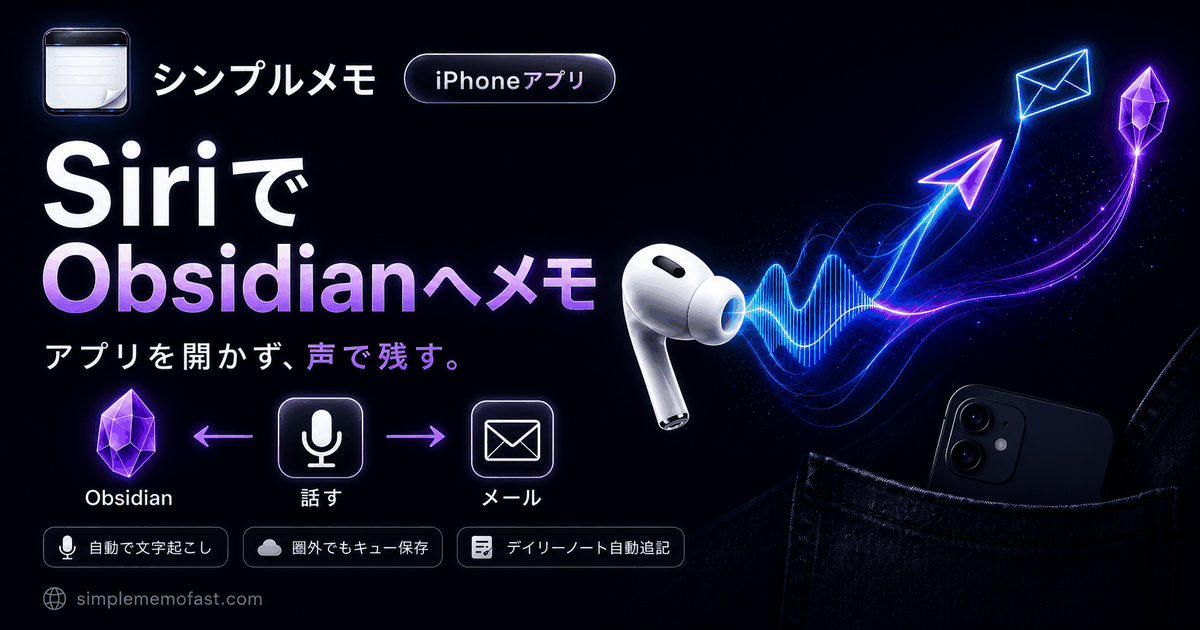
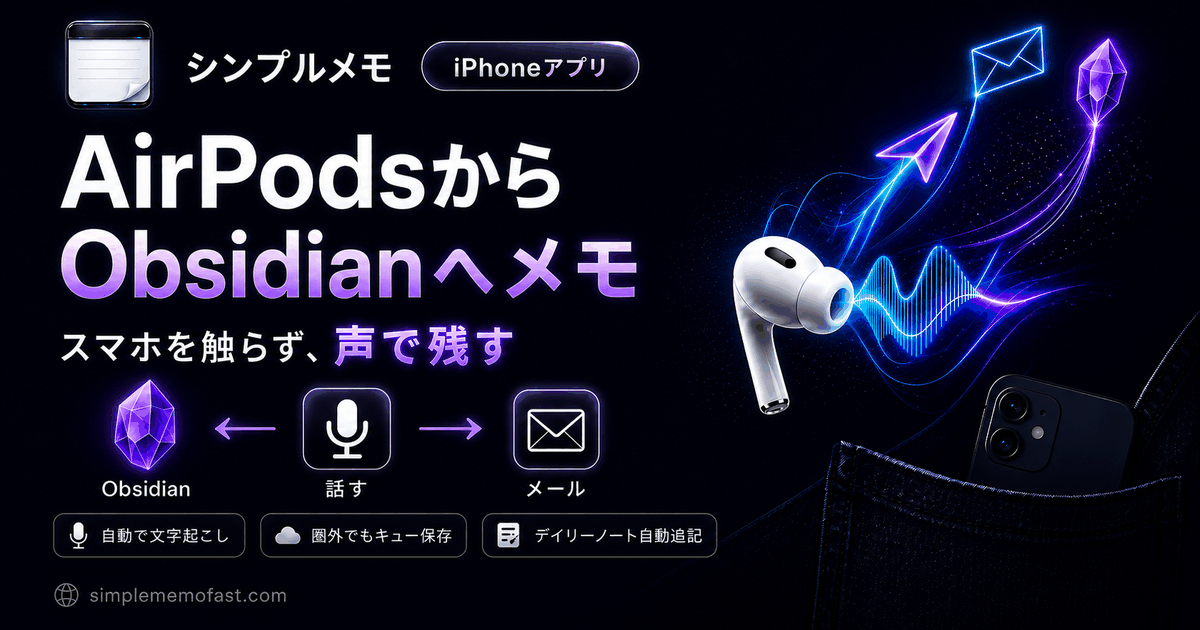
feat(lp): /siri/ の訴求主語を AirPods に振り直し、トップページに予告バナーを追加 (#427)
* feat(lp): /siri/ の訴求主語を Siri から AirPods に振り直す

文字入りバナーを「AirPodsからObsidianへメモ／スマホを触らず、声で残す」に
作り直したのに合わせ、特集ページとトップページ予告のコピーを揃える。

主役は AirPods、Siri は「その仕組み」という位置づけに変えた。URLは /siri/ の
まま、title・description・JSON-LD には Siri と「シンプルメモで残す」を残して
あるので、既存の Siri 系クエリの手がかりは落ちない。そのうえで
「AirPods メモ」「AirPods Obsidian」を新たに拾いにいく。

## /siri/

- title / description / OGP / Twitter Card / JSON-LD(Article・WebPage) /
  言語切替用 meta テンプレート（日英）
- ヒーロー: ラベル「AirPods × Siri（スマホを触らない音声メモ）」、
  H1「AirPodsから、Obsidianへメモ。」、リード文を AirPods 起点に
- 「ひとことで言うと」を AirPods 起点に
- 節見出し「「開かない」から、できること」→「「触らない」から、できること」
- ヒーロー画像の alt を新バナーの内容に更新

## トップページ / hands-free

- 予告チップ「🎧 Siriで開かずに送る「シンプルメモで残す」」
  → 「🎧 AirPodsから、スマホを触らず送る」
- /hands-free/ の関連リンクも同じ文言に

## 画像は未配置

新バナーの実ファイルはまだ入っていない。同じスロット
assets/img/og/siri.png を上書きすれば有効になる。参照側の ?v= は
20260805c に上げてあるので、置いた瞬間に7日 immutable キャッシュを抜ける。
上書きするまでは H1 の直下に旧バナーが出て矛盾するため、
差し替え前にマージしないこと（経緯は docs/siri-hero-banner-brief.md）。

検証: 16ページ × 390/768/1280px で横溢れ・JSエラーなし。
seo-check 0 errors / 165 warnings（変更前と同数）、sync_constants・
generate_sitemap も変更前と同じ。title は日 57字・英 66字で上限70字以内。

Claude-Session: https://claude.ai/code/session_01NAfAYSWiapyAGvW8aPQ4T8

* feat(lp): トップページに AirPods バナーブロックを追加

これまで /siri/ への導線は音声入力セクション内のリンクチップ1つだけだった。
Apple Watch・Obsidian・AIタグと同じバナーブロック（クリックできるバナー画像
＋リード文＋CTAボタン）に格上げする。

配置はヒーロー直下の先頭。ファイル内に既にある「newest feature — first
banner after hero」の並び順に従った（Siri送信は v5.0.3 で、AIタグ・
Apple Watch v3.9 より新しい）。AIタグ側のコメントはその記述を外した。
[…]

diff --git a/siri/index.html b/siri/index.html
@@ -22,17 +22,17 @@
       });
     });
   </script>
-  <title>Siriで音声メモ — アプリを開かずに送れる「シンプルメモで残す」 | Obsidian連携シンプルメモ</title>
-  <meta name="description" content="アプリを開かずに、Siriに話すだけでメモがメールとObsidianに届きます。合言葉は「Hey Siri、シンプルメモで残す」。AirPodsならポケットのiPhoneに一度も触れず、声だけで完結。設定手順・使えるフレーズ・うまくいかないときの対処まで実機検証に基づいて解説します。">
+  <title>AirPodsで音声メモ — スマホを触らずSiriでObsidianへ送る | Obsidian連携シンプルメモ</title>
+  <meta name="description" content="AirPodsに話しかけるだけで、メモがメールとObsidianに届きます。合言葉は「Hey Siri、シンプルメモで残す」。スマホはポケットに入れたまま、アプリも開かず、画面も見ずに声だけで完結。設定手順・使えるフレーズ・うまくいかないときの対処まで実機検証に基づいて解説します。">
   <meta name="theme-color" content="#070b14">
 
   <!-- OGP -->
-  <meta property="og:title" content="Siriで音声メモ — アプリを開かずに送れる「シンプルメモで残す」 | Obsidian連携シンプルメモ">
-  <meta property="og:description" content="Siriに話すだけでメモがメールとObsidianに届く。合言葉は「Hey Siri、シンプルメモで残す」。AirPodsならiPhoneに触れず声だけで完結。">
+  <meta property="og:title" content="AirPodsで音声メモ — スマホを触らずSiriでObsidianへ送る | Obsidian連携シンプルメモ">
+  <meta property="og:description" content="AirPodsに話しかけるだけでメモがメールとObsidianに届く。合言葉は「Hey Siri、シンプルメモで残す」。スマホはポケットのまま、画面も見ずに声だけで完結。">
   <meta property="og:type" content="article">
   <meta property="article:published_time" content="2026-08-05T00:00:00+09:00">
   <meta property="og:url" content="https://simplememofast.com/siri/">
-  <meta property="og:image" content="https://simplememofast.com/assets/img/og/siri.png?v=20260805b">
+  <meta property="og:image" content="https://simplememofast.com/assets/img/og/siri.png?v=20260805c">
   <meta property="og:image:width" content="1200">
   <meta property="og:image:height" content="630">
   <meta property="og:site_name" content="Obsidian連携シンプルメモ">
@@ -42,9 +42,9 @@
   <!-- Twitter Card -->
   <meta name="twitter:card" content="summary_large_image">
   <meta name="twitter:site" content="@simplememofast">
-  <meta name="twitter:title" content="Siriで音声メモ — アプリを開かずに送れる「シンプルメモで残す」 | Obsidian連携シンプルメモ">
-  <meta name="twitter:description" content="Siriに話すだけでメモがメールとObsidianに届く。合言葉は「Hey Siri、シンプルメモで残す」。AirPodsならiPhoneに触れず声だけで完結。">
-  <meta name="twitter:image" content="https://simplememofast.com/assets/img/og/siri.png?v=20260805b">
+  <meta name="twitter:title" content="AirPodsで音声メモ — スマホを触らずSiriでObsidianへ送る | Obsidian連携シンプルメモ">
+  <meta name="twitter:description" content="AirPodsに話しかけるだけでメモがメールとObsidianに届く。合言葉は「Hey Siri、シンプルメモで残す」。スマホはポケットのまま、画面も見ずに声だけで完結。">
+  <meta name="twitter:image" content="https://simplememofast.com/assets/img/og/siri.png?v=20260805c">
   <link rel="preconnect" href="https://analytics.ahrefs.com">
   <!-- i18n: managed by scripts/normalize_i18n_head.py -->
   <link rel="canonical" href="https://simplememofast.com/siri/">
@@ -68,14 +68,14 @@
   </script>
 
   <!-- JSON-LD: Article -->
-  <script type="application/ld+json">{"@context":"https://schema.org","@type":"Article","@id":"https://simplememofast.com/siri/#article","inLanguage":"ja","headline":"Siriで音声メモ — アプリを開かずに送れる「シンプルメモで残す」","description":"アプリを開かずに、Siriに話すだけでメモがメールとObsidianに届きます。合言葉は「Hey Siri、シンプルメモで残す」。AirPodsならポケットのiPhoneに一度も触れず、声だけで完結。設定手順・使えるフレーズ・うまくいかないときの対処まで実機検証に基づいて解説。","url":"https://simplememofast.com/siri/","datePublished":"2026-08-05","dateModified":"2026-08-05","author":{"@type":"Person","@id":"https://simplememofast.com/about/#person","name":"AI Ataka","url":"https://simplememofast.com/about/"},"publisher":{"@type":"Organization","name":"Obsidian連携シンプルメモ","@id":"https://simplememofast.com/#organization","url":"https://simplememofast.com/","logo":{"@type":"ImageObject","url":"https://simplememofast.com/assets/img/app-icon-256.png","width":256,"height":256},"alternateName":["Captio式シンプルメモ","シンプルメモ","SimpleMemoFast","Simple Memo","Simple Memo - for Obsidian"]},"image":"https://simplememofast.com/assets/img/og/siri.png?v=20260805b","mainEntityOfPage":{"@type":"WebPage","@id":"https://simplememofast.com/siri/"}}</script>
+  <script type="application/ld+json">{"@context":"https://schema.org","@type":"Article","@id":"https://simplememofast.com/siri/#article","inLanguage":"ja","headline":"AirPodsで音声メモ — スマホを触らずSiriでObsidianへ送る","description":"AirPodsに話しかけるだけで、メモがメールとObsidianに届きます。合言葉は「Hey Siri、シンプルメモで残す」。スマホはポケットに入れたまま、アプリも開かず、画面も見ずに声だけで完結。設定手順・使えるフレーズ・うまくいかないときの対処まで実機検証に基づいて解説解説。","url":"https://simplememofast.com/siri/","datePublished":"2026-08-05","dateModified":"2026-08-05","author":{"@type":"Person","@id":"https://simplememofast.com/about/#person","name":"AI Ataka","url":"https://simplememofast.com/about/"},"publisher":{"@type":"Organization","name":"Obsidian連携シンプルメモ","@id":"https://simplememofast.com/#organization","url":"https://simplememofast.com/","logo":{"@type":"ImageObject","url":"https://simplememofast.com/assets/img/app-icon-256.png","width":256,"height":256},"alternateName":["Captio式シンプルメモ","シンプルメモ","SimpleMemoFast","Simple Memo","Simple Memo - for Obsidian"]},"image":"https://simplememofast.com/assets/img/og/siri.png?v=20260805c","mainEntityOfPage":{"@type":"WebPage","@id":"https://simplememofast.com/siri/"}}</script>
 
   <!-- JSON-LD: FAQPage -->
   <script type="application/ld+json">{"@context":"https://schema.org","@type":"FAQPage","@id":"https://simplememofast.com/siri/#faq","inLanguage":"ja","mainEntity":[{"@type":"Question","name":"Siriが反応しません／「そのためのアプリが見当たりません」と言われます","acceptedAnswer":{"@type":"Answer","text":"ショートカットAppを開き、「シンプルメモ」のショートカット設定でSiriがオンになっているか確認してください（オフだと全フレーズが認識されません）。オンにしたら「Hey Siri、シンプルメモで残す」と話しかけてください。言い回しは「〜で残す」が最も確実です。インストール直後は登録に数分かかることがあるため、アプリを一度起動して少し待ってから試してください。"}},{"@type":"Question","name":"「シンプルメモにメモ」と言ったら違う動きをしました","acceptedAnswer":{"@type":"Answer","text":"「〜にメモ」という言い回しはiPhone標準のメモ機能への指示としてSiriに解釈されやすく、シンプルメモには届かないことがあります。実機検証の結果、確実に通る合言葉は「Hey Siri、シンプルメモで残す」です。「シンプルメモに送信」はメッセージAppとの二択が出ることがありますが、一度「シンプルメモ」を選ぶと以降は通りやすくなります。アプリ名だけを言うとアプリが開くだけです。"}},{"@type":"Question","name":"アプリを開かずに、どうやって送信されるのですか？","acceptedAnswer":{"@type":"Answer","text":"AppleのApp Intents（App Shortcuts）という仕組みで、Siriがバックグラウンドのままアプリの送信処理を直接呼び出します。画面は開かず、話した本文がそのままいつものメール送信とObsidian連携に合流します。事前にアプリ内で初期設定（送信先メールの認証）を済ませておくことが前提です。"}},{"@type":"Question","name":"オフライン（圏外）でSiriに話したらどうなりますか？","acceptedAnswer":{"@type":"Answer","text":"メモは失われません。送信キュー（Outbox）に暗号化して保存され、オンラインに戻りしだい自動送信されます。その場合Siriは「オンラインに戻りしだい送信します」と答えます。"}},{"@type":"Question","name":"AirPodsだけで完結しますか？画面を見る必要は？","acceptedAnswer":{"@type":"Answer","text":"iPhoneがロックされたままポケットにあっても、AirPodsで「Hey Siri、シンプルメモで残す」→ Siriが「何をメモしますか？」と読み上げ → 本文を話す → 送信完了の読み上げ、まで画面に一切触れず・見ずに完結します（実機検証済み）。画面が点いた状態でiPhone本体に話しかけた場合は、Siriの仕様で応答が画面表示になることがあります。"}},{"@type":"Question","name":"「高音質録音」とは何ですか？","acceptedAnswer":{"@type":"Answer","text":"アプリ内の音声入力でAirPodsのマイクを使って録音する設定です（iOS 26以降・H2チップ搭載AirPods）。音質と距離の自由度が上がる一方、認識開始が約0.7秒遅くなるため、速さを優先して既定ではオフにしています。設定 → 詳細設定 → 高音質録音で切り替えられます。なおSiri経由の送信は、この設定に関係なくAirPodsのマイクで話せます。"}},{"@type":"Question","name":"Siri送信は無料プランでも使えますか？","acceptedAnswer":{"@type":"Answer","text":"使えます。Siri経由の送信もアプリ内からの送信と同じ扱いで、無料プランの1日の送信枠を共有します。枠を使い切った場合はSiriが音声でその旨を伝えます。"}}]}</script>
 
   <!-- JSON-LD: WebPage with Speakable -->
   <script type="application/ld+json">
-  {"@context":"https://schema.org","@type":"WebPage","@id":"https://simplememofast.com/siri/#webpage","inLanguage":"ja","name":"Siriで音声メモ — アプリを開かずに送れる「シンプルメモで残す」 | Obsidian連携シンプルメモ","url":"https://simplememofast.com/siri/","speakable":{"@type":"SpeakableSpecification","cssSelector":[".lp-hero__title",".lp-hero__sub",".lp-section__lead"]},"isPartOf":{"@id":"https://simplememofast.com/#website"}}
+  {"@context":"https://schema.org","@type":"WebPage","@id":"https://simplememofast.com/siri/#webpage","inLanguage":"ja","name":"AirPodsで音声メモ — スマホを触らずSiriでObsidianへ送る | Obsidian連携シンプルメモ","url":"https://simplememofast.com/siri/","speakable":{"@type":"SpeakableSpecification","cssSelector":[".lp-hero__title",".lp-hero__sub",".lp-section__lead"]},"isPartOf":{"@id":"https://simplememofast.com/#website"}}
   </script>
   <link rel="stylesheet" href="/assets/css/style.min.css?v=20260805-read">
   <link rel="preload" href="/assets/fonts/NotoSansJP-Regular-subset.woff2" as="font" type="font/woff2" crossorigin>
@@ -344,14 +344,14 @@
   <!-- Meta Templates for JS -->
   <div class="meta-templates" style="display:none;">
     <div lang="ja" class="meta-template" data-lang="ja">
-      <span class="meta-title">Siriで音声メモ — アプリを開かずに送れる「シンプルメモで残す」 | Obsidian連携シンプルメモ</span>
-      <span class="meta-og-title">Siriで音声メモ — アプリを開かずに送れる「シンプルメモで残す」 | Obsidian連携シンプルメモ</span>
-      <span class="meta-description">アプリを開かずに、Siriに話すだけでメモがメールとObsidianに届きます。合言葉は「Hey Siri、シンプルメモで残す」。AirPodsならポケットのiPhoneに一度も触れず、声だけで完結。設定手順・使えるフレーズ・うまくいかないときの対処まで実機検証に基づいて解説します。</span>
+      <span class="meta-title">AirPodsで音声メモ — スマホを触らずSiriでObsidianへ送る | Obsidian連携シンプルメモ</span>
+      <span class="meta-og-title">AirPodsで音声メモ — スマホを触らずSiriでObsidianへ送る | Obsidian連携シンプルメモ</span>
+      <span class="meta-description">AirPodsに話しかけるだけで、メモがメールとObsidianに届きます。合言葉は「Hey Siri、シンプルメモで残す」。スマホはポケットに入れたまま、アプリも開かず、画面も見ずに声だけで完結。設定手順・使えるフレーズ・うまくいかないときの対処まで実機検証に基づいて解説します。</span>
     </div>
     <div lang="en" class="meta-template" data-lang="en">
-      <span class="meta-title">Send Memos with Siri — without opening the app | Simple Memo</span>
-      <span class="meta-og-title">Send Memos with Siri — without opening the app | Simple Memo</span>
-      <span class="meta-description">Just talk to Siri and your memo lands in your inbox and Obsidian — without opening the app. Say "Hey Siri, send a memo with Simple Memo." With AirPods, you never even touch your iPhone. Setup, phrases, and troubleshooting, all verified on device.</span>
+      <span class="meta-title">Voice Memos from Your AirPods — straight to Obsidian | Simple Memo</span>
+      <span class="meta-og-title">Voice Memos from Your AirPods — straight to Obsidian | Simple Memo</span>
+      <span class="meta-description">Talk to your AirPods and your memo lands in your inbox and Obsidian. Say "Hey Siri, send a memo with Simple Memo." Your phone stays in your pocket — no app, no screen. Setup, phrases, and troubleshooting, all verified on device.</span>
     </div>
   </div>
 <main class="page-content">
@@ -360,19 +360,24 @@
       <!-- Hero -->
       <div class="lp-hero">
         <div class="lp-hero__label">
-          <span lang="ja" data-lang="ja">Siriで音声メモ（アプリを開かない送信）</span>
-          <span lang="en" data-lang="en">Send memos with Siri — app stays closed</span>
+          <span lang="ja" data-lang="ja">AirPods × Siri（スマホを触らない音声メモ）</span>
+          <span lang="en" data-lang="en">AirPods × Siri — phone never leaves your pocket</span>
         </div>
         <h1 class="lp-hero__title">
-          <span lang="ja" data-lang="ja">開かずに、声だけで残す。</span>
-          <span lang="en" data-lang="en">Don't open the app. Just say it.</span>
+          <span lang="ja" data-lang="ja">AirPodsから、Obsidianへメモ。</span>
+          <span lang="en" data-lang="en">From your AirPods, straight to Obsidian.</span>
         </h1>
         <p class="lp-hero__sub">
-          <span lang="ja" data-lang="ja">「<strong>Hey Siri、シンプルメモで残す</strong>」——それだけで、話した内容が<strong>アプリを開かずに</strong>いつものメールと<a href="/obsidian/" style="color:var(--accent);">Obsidian</a>に届きます。AirPodsなら、<strong>ポケットの中のiPhoneに一度も触れず</strong>、Siriとの音声のやり取りだけで完結。歩きながら、家事をしながら、思いつきを逃しません。</span>
-          <span lang="en" data-lang="en">"<strong>Hey Siri, send a memo with Simple Memo</strong>" — that's all it takes. What you say lands in your inbox and <a href="/obsidian/" style="color:var(--accent);">Obsidian</a> <strong>without the app ever opening</strong>. With AirPods, your iPhone <strong>stays in your pocket, untouched</strong> — the whole exchange happens by voice. Capture thoughts while walking, cooking, anywhere.</span>
+          <span lang="ja" data-lang="ja">AirPodsに「<strong>Hey Siri、シンプルメモで残す</strong>」と言うだけ。話した内容が、いつものメールと<a href="/obsidian/" style="color:var(--accent);">Obsidian</a>に届きます。<strong>iPhoneはポケットに入れたまま</strong>——取り出さない、ロックを解除しない、アプリも開かない。画面を見ずに、声のやり取りだけで完結します。歩きながら、家事をしながら、思いつきを逃しません。</span>
+          <span lang="en" data-lang="en">Say "<strong>Hey Siri, send a memo with Simple Memo</strong>" into your AirPods. What you say lands in your inbox and <a href="/obsidian/" style="color:var(--accent);">Obsidian</a>. Your <strong>iPhone stays in your pocket</strong> — never taken out, never unlocked, app never opened. The whole exchange happens by voice, screen dark. Capture thoughts while walking, cooking, anywhere.</span>
         </p>
+        <!-- LCP画像。実ユーザーには webp(74KB) を出し、png(342KB) は OGP クローラと
+             webp 非対応向けのフォールバックとして残す。両者は同一の絵。 -->
         <figure style="margin:0 auto 2rem;max-width:720px;">
-          <img src="/assets/img/og/siri.png?v=20260805b" width="1200" height="630" alt="シンプルメモ（iPhoneアプリ） — SiriでObsidianへメモ。アプリを開かず、声で残す。話すだけで自動文字起こし、メールとObsidianのデイリーノートへ届く（圏外でもキュー保存）" style="width:100%;height:auto;border-radius:16px;border:1px solid var(--border);" loading="eager">
+          <picture>
+            <source type="image/webp" srcset="/assets/img/siri-banner-ja.webp 1200w, /assets/img/siri-banner-ja@2x.webp 1691w" sizes="(max-width: 760px) 100vw, 720px">
+            <img src="/assets/img/og/siri.png?v=20260805c" width="1200" height="630" alt="シンプルメモ（iPhoneアプリ） — AirPodsからObsidianへメモ。スマホを触らず、声で残す。話すだけで自動文字起こし、メールとObsidianのデイリーノートへ届く（圏外でもキュー保存）" style="width:100%;height:auto;border-radius:16px;border:1px solid var(--border);" loading="eager" fetchpriority="high">
+          </picture>
         </figure>
         <div class="hero-cta-row" style="display:flex;gap:.75rem;justify-content:center;flex-wrap:wrap;">
           <a lang="ja" data-lang="ja" href="https://apps.apple.com/jp/app/id6758438948?ct=siri-jp&amp;mt=8" class="app-store-badge" aria-label="App Store からダウンロード">
@@ -395,8 +400,8 @@
       <section class="lp-section" style="padding-top:0;">
         <div class="tip-box" style="font-size:.95rem;">
           <div class="tip-box__title"><span lang="ja" data-lang="ja">ひとことで言うと</span><span lang="en" data-lang="en">In one sentence</span></div>
-          <p lang="ja" data-lang="ja">Siriに「<strong>シンプルメモで残す</strong>」と言うと、Siriが「<strong>何をメモしますか？</strong>」と聞き返すので、本文を話すだけ。<strong>アプリは開かず</strong>、バックグラウンドでそのまま送信され、いつものメールと<strong>Obsidianのノート</strong>に届きます。圏外なら送信キューに貯まって復帰後に自動送信——<strong>メモは消えません</strong>。</p>
-          <p lang="en" data-lang="en">Tell Siri "<strong>send a memo with Simple Memo</strong>." Siri asks "<strong>What do you want to note down?</strong>" — just say it. <strong>The app never opens</strong>: your memo is sent in the background to your inbox and your <strong>Obsidian note</strong>. Offline? It queues and sends automatically when you're back — <strong>nothing is lost</strong>.</p>
+          <p lang="ja" data-lang="ja">AirPodsで「<strong>シンプルメモで残す</strong>」と言うと、Siriが「<strong>何をメモしますか？</strong>」と読み上げるので、本文を話すだけ。<strong>スマホは触りません</strong>——アプリも開かず、バックグラウンドでそのまま送信され、いつものメールと<strong>Obsidianのノート</strong>に届きます。圏外なら送信キューに貯まって復帰後に自動送信——<strong>メモは消えません</strong>。</p>
+          <p lang="en" data-lang="en">Say "<strong>send a memo with Simple Memo</strong>" into your AirPods. Siri speaks back "<strong>What do you want to note down?</strong>" — just say it. <strong>You never touch your phone</strong>: the app stays closed and your memo is sent in the background to your inbox and your <strong>Obsidian note</strong>. Offline? It queues and sends automatically when you're back — <strong>nothing is lost</strong>.</p>
         </div>
       </section>
 
@@ -433,8 +438,8 @@
       <!-- Why it matters -->
       <section class="lp-section">
         <h2 class="lp-section__title">
-          <span lang="ja" data-lang="ja">「開かない」から、できること</span>
-          <span lang="en" data-lang="en">What "never opening the app" unlocks</span>
+          <span lang="ja" data-lang="ja">「触らない」から、できること</span>
+          <span lang="en" data-lang="en">What "never touching your phone" unlocks</span>
         </h2>
         <div class="reason-cards">
           <div class="reason-card">

diff --git a/index.html b/index.html
@@ -700,7 +700,27 @@
     </div>
   </section>
 
-  <!-- AI Auto-Tagging Banner (newest feature — first banner after hero) -->
+  <!-- AirPods Banner (newest feature — first banner after hero / v5.0.3 Siri送信) -->
+  <section class="siri-banner" style="padding:1.5rem 0 0.5rem;">
+    <div class="container">
+      <a href="/siri/" aria-label="AirPodsからObsidianへメモを詳しく見る" style="display:block;text-decoration:none;border-radius:var(--radius-lg);overflow:hidden;border:1px solid rgba(34,211,238,.28);box-shadow:0 10px 34px rgba(34,211,238,.14);">
+        <picture>
+          <source type="image/webp" srcset="/assets/img/siri-banner-ja.webp 1200w, /assets/img/siri-banner-ja@2x.webp 1691w" sizes="(max-width: 1140px) 100vw, 1140px">
+          <img src="/assets/img/siri-banner-ja.jpg" width="1200" height="630" alt="シンプルメモ（iPhoneアプリ） — AirPodsからObsidianへメモ。スマホを触らず、声で残す。話すだけで自動文字起こし、メールとObsidianのデイリーノートへ届く（圏外でもキュー保存）" style="width:100%;height:auto;display:block;" loading="lazy" decoding="async">
+        </picture>
+      </a>
+      <div style="text-align:center;margin-top:1.25rem;">
+        <p style="color:var(--text-secondary);font-size:.95rem;line-height:1.8;max-width:680px;margin:0 auto 1rem;">
+          <strong style="color:var(--text);">NEW・AirPodsで音声メモ。</strong><span class="nb">「Hey Siri、シンプルメモで残す」だけで、</span><span class="nb">スマホを触らずメールとObsidianへ。</span>
+        </p>
+        <a href="/siri/" style="display:inline-flex;align-items:center;min-height:48px;padding:.7rem 1.4rem;background:linear-gradient(135deg,#22d3ee,#3b82f6);color:#0a0c12;text-decoration:none;font-weight:700;font-size:.95rem;border-radius:24px;">
+          🎧 AirPodsで送る方法を詳しく見る →
+        </a>
+      </div>
+    </div>
+  </section>
+
+  <!-- AI Auto-Tagging Banner -->
   <section class="ai-tags-banner" id="ai-tags" style="padding:1.5rem 0 0.5rem;">
     <div class="container">
       <a href="/ai-tags/" aria-label="AIタグ自動追加を詳しく見る" style="display:block;text-decoration:none;border-radius:var(--radius-lg);overflow:hidden;border:1px solid rgba(139,124,255,.28);box-shadow:0 10px 34px rgba(124,77,255,.16);">
@@ -1037,7 +1057,7 @@
           🚲🚗 移動中もハンズフリー（圏外OK）→
         </a>
         <a href="/siri/" style="display:inline-flex;align-items:center;min-height:48px;margin-left:.6rem;padding:.7rem 1.2rem;border:1px solid rgba(34,211,238,.4);color:#22d3ee;text-decoration:none;font-weight:700;font-size:.9rem;border-radius:24px;word-break:keep-all;">
-          🎧 Siriで開かずに送る「シンプルメモで残す」→
+          🎧 AirPodsから、スマホを触らず送る →
         </a>
         <a href="/fastest-voice-memo/" style="display:inline-flex;align-items:center;min-height:48px;margin-left:.6rem;padding:.7rem 1.2rem;border:1px solid rgba(34,211,238,.4);color:#22d3ee;text-decoration:none;font-weight:700;font-size:.9rem;border-radius:24px;word-break:keep-all;">
           ⚡ アクションボタンで5秒メモ（おすすめの使い方）→

diff --git a/hands-free/index.html b/hands-free/index.html
@@ -524,7 +524,7 @@
           <span lang="en" data-lang="en">Related Pages</span>
         </h2>
         <div class="internal-links">
-          <a href="/siri/"><span lang="ja" data-lang="ja">Siriで開かずに送る「シンプルメモで残す」</span><span lang="en" data-lang="en">Send with Siri (app stays closed)</span></a>
+          <a href="/siri/"><span lang="ja" data-lang="ja">AirPodsから、スマホを触らず送る</span><span lang="en" data-lang="en">From your AirPods, phone untouched</span></a>
           <a href="/fastest-voice-memo/"><span lang="ja" data-lang="ja">アクションボタンで5秒メモ（おすすめの使い方）</span><span lang="en" data-lang="en">The 5-Second Memo (recommended workflow)</span></a>
           <a href="/voice-input/"><span lang="ja" data-lang="ja">音声入力（音声自動入力）</span><span lang="en" data-lang="en">Voice Input</span></a>
           <a href="/obsidian/"><span lang="ja" data-lang="ja">Obsidian連携</span><span lang="en" data-lang="en">Obsidian Integration</span></a>

diff --git a/docs/siri-hero-banner-brief.md b/docs/siri-hero-banner-brief.md
@@ -61,3 +61,31 @@ light arc across the middle, left half kept dark and clean for overlay text.
 
 案A（歩行シーン）で生成・採用。1731×909 → 1200×630 リサイズ、256色最適化で 434KB。
 `assets/img/og/siri.png` 配置・figure有効化済み。ページヒーロー／OGP／プレス素材を本画像1枚で兼用する。
+
+## ✅ 差し替え済み — AirPods主語版（2026-08-05）
+
+訴求の主語を Siri から **AirPods** に変更。文字入りバナーも
+「SiriでObsidianへメモ／アプリを開かず、声で残す。」→
+**「AirPodsからObsidianへメモ／スマホを触らず、声で残す」** に作り直した。
+
+入稿は 1691×930（アスペクト1.818）。OGP標準の 1.905 に合わせるため、
+**上26px・下16pxの黒余白だけを切って 1691×888 にしてから 1200×630 へ縮小**した
+（歪ませない・内容を削らない）。内容は y=52〜916 に収まっており、下端に見えた
+明部はテキストではなくフルブリードのジーンズ地なので切って問題ない。
+
+### 生成物
+
+| ファイル | 用途 | サイズ |
+|---|---|---|
+| `assets/img/og/siri.png` (1200×630, 256色) | OGPスロット／プレス素材／webp非対応フォールバック | 342KB |
+| `assets/img/siri-banner-ja.webp` (1200×630) | 実ユーザー向け1x | 74KB |
+| `assets/img/siri-banner-ja@2x.webp` (1691×888) | 実ユーザー向け2x | 124KB |
+| `assets/img/siri-banner-ja.jpg` (1200×630) | トップページの非webpフォールバック | 113KB |
+
+`/siri/` ヒーローとトップページのバナーはどちらも `<picture>` にしてあり、
+実ユーザーには webp が届く。PNG は OGP クローラ用に URL を固定したまま残す
+（ヒーローは LCP なので 342KB→74KB の差が効く）。
+
+`og/siri.png` の参照には `?v=20260805c` を付けてある（`/assets/*` は7日
+immutable キャッシュのため、中身を変えたらバンプが要る）。
+`siri-banner-ja.*` は新規ファイルなのでバージョン不要。
